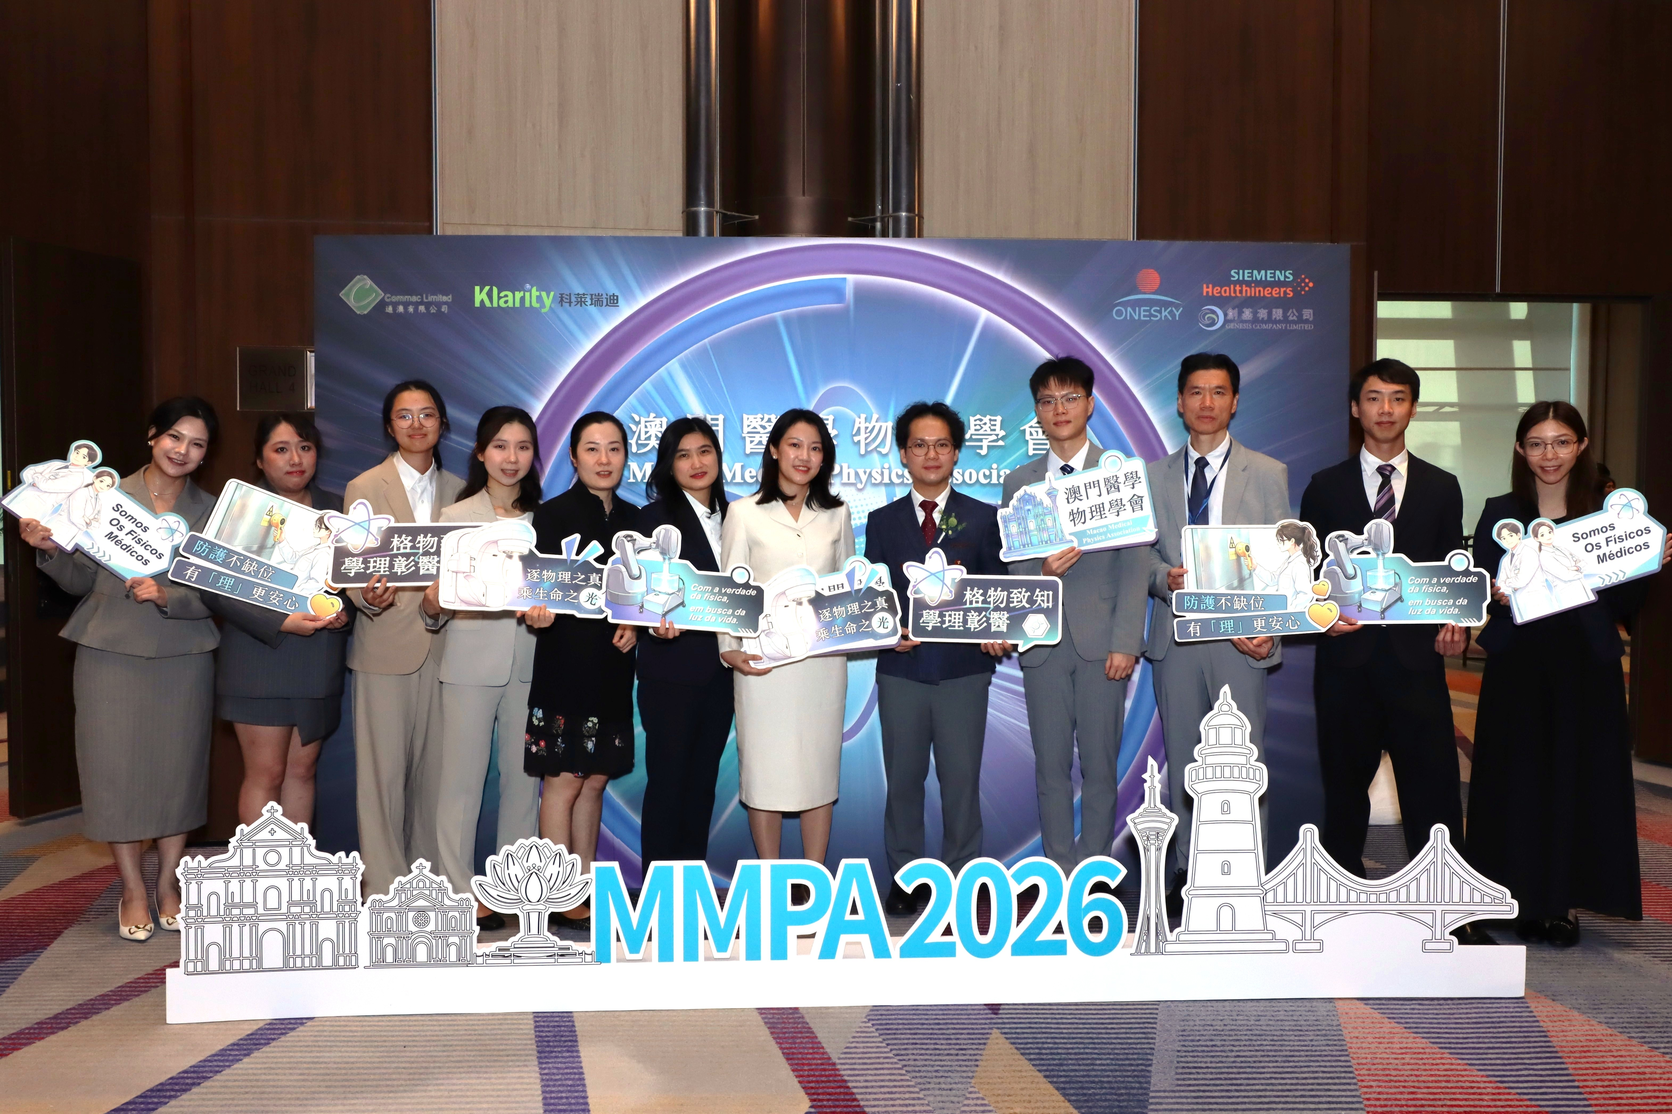
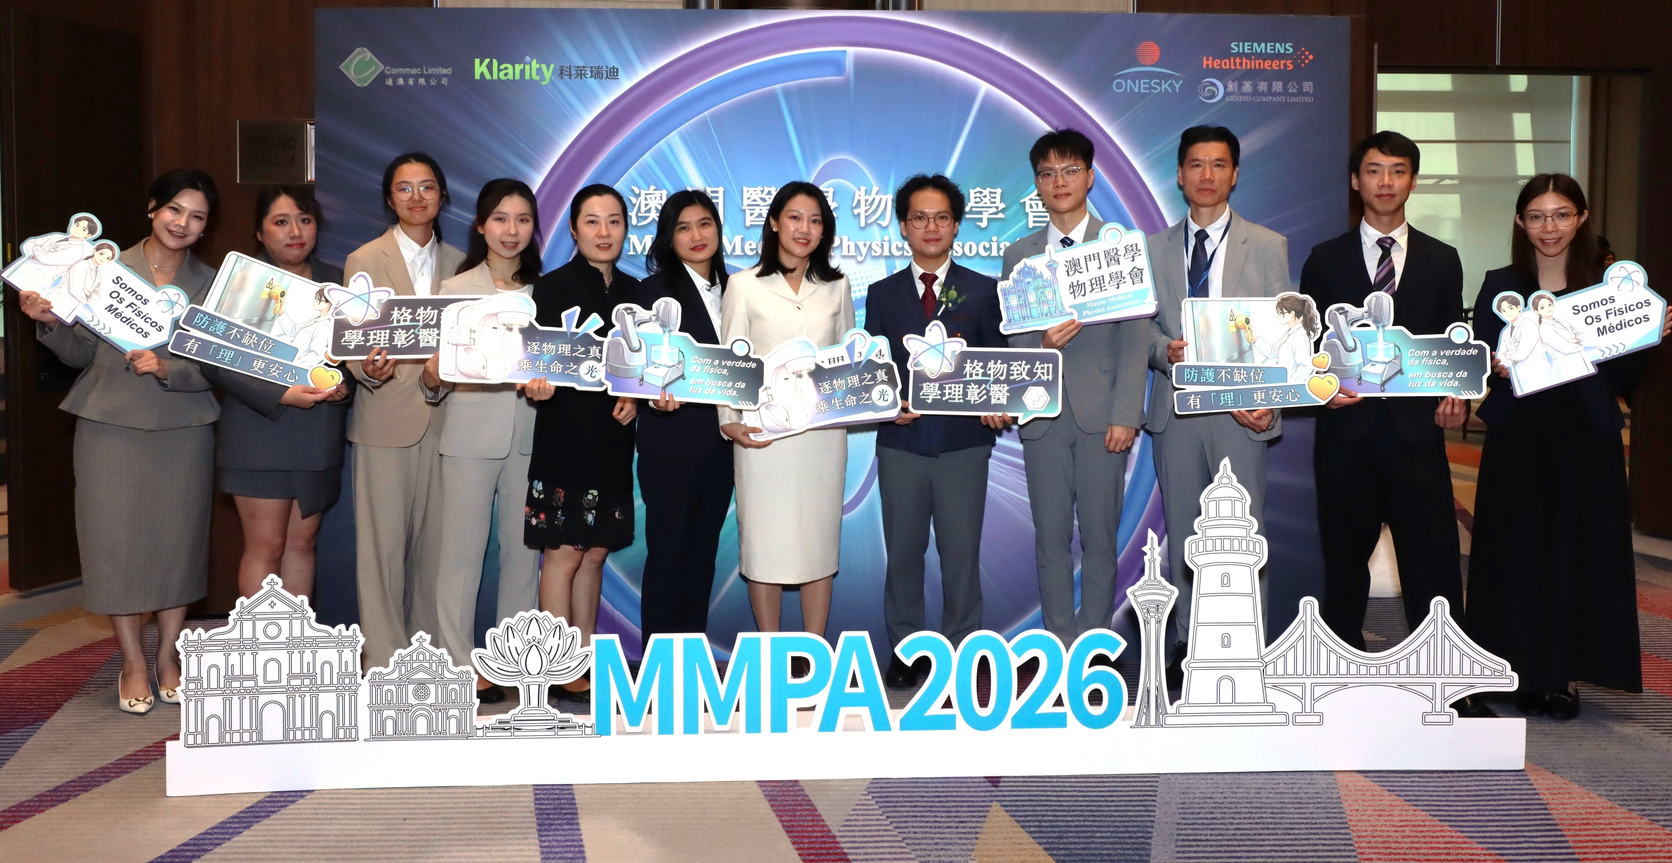
added AoA

diff --git a/about.html b/about.html
@@ -15,7 +15,7 @@
     <a href="index.html" class="logo">
       <img src="images/logo.png" alt="學會標誌" width="36" height="36">
       <span class="lang-zh">澳門醫學物理學會</span>
-      <span class="lang-en">Macau Medical Physics Association</span>
+      <span class="lang-en">Macao Medical Physics Association</span>
     </a>
     <div class="header-tools">
       <form class="site-search" id="site-search" role="search" autocomplete="off">
@@ -136,17 +136,140 @@
       </div>
 
       <!-- ========== 章程 ========== -->
-      <div class="tab-panel prose" id="panel-constitution" role="tabpanel" aria-labelledby="tab-constitution">
-        <!-- TODO: 章程全文尚未提供。可在此貼上條文，或放一個 PDF 下載連結，例如：
-             <a class="btn" href="docs/MMPA_constitution.pdf" target="_blank" rel="noopener">下載章程（PDF）</a> -->
-        <div class="sub-head"><h3><span class="lang-zh">學會章程</span><span class="lang-en">Constitution</span></h3></div>
-        <p>
-          <span class="lang-zh">章程內容整理中，稍後將於此頁公佈。</span>
-          <span class="lang-en">The Association's constitution is being prepared and will be published on this page shortly.</span>
-        </p>
+      <div class="tab-panel prose law" id="panel-constitution" role="tabpanel" aria-labelledby="tab-constitution">
+
+        <div class="lang-zh">
+          <p class="law-cert">本章程已刊登《澳門特別行政區公報》。</p>
+
+          <h3 class="law-title">澳門醫學物理學會章程</h3>
+          <p class="law-sub">ASSOCIAÇÃO DE FÍSICA MÉDICA DE MACAU</p>
+
+          <!-- ===== 第一章 ===== -->
+          <div class="sub-head"><h3>第一章  總則</h3></div>
+
+          <h4>第一條  名稱</h4>
+          <p>本會中文名稱為“澳門醫學物理學會”，葡文名稱為“ASSOCIAÇÃO DE FÍSICA MÉDICA DE MACAU”，英文名稱為“MACAO MEDICAL PHYSICS ASSOCIATION”，英文簡稱為“MMPA”。</p>
+
+          <h4>第二條  會址</h4>
+          <p>一、本會會址設於澳門羅利老馬路 3 號地下。</p>
+          <p>二、本會可透過會員大會決議更換會址。</p>
+
+          <h4>第三條  宗旨</h4>
+          <p>本會為非牟利團體。宗旨為：</p>
+          <p class="item">(一) 在澳門地區推廣有關醫學物理的應用及研究；</p>
+          <p class="item">(二) 提升澳門地區從事放射工作的醫療人員在醫學物理的專業水平；</p>
+          <p class="item">(三) 運用醫學物理專業知識，提升公眾及相關專業人員對輻射防護與安全的認知；</p>
+          <p class="item">(四) 與澳門地區以外的學會及相關團體進行學術研討和交流。</p>
+
+          <h4>第四條  會務</h4>
+          <p>本會之會務主要為：</p>
+          <p class="item">(一) 舉辦或協辦有關醫學物理與相關科技的學術演講會及研討會；</p>
+          <p class="item">(二) 發表有關醫學物理與相關科技之學術文章，會訊及有关刊物；</p>
+          <p class="item">(三) 舉辦或協辦醫學物理相關專業的繼續教育及培訓；</p>
+          <p class="item">(四) 有關會員或國內外學術團體之連繫交流；</p>
+          <p class="item">(五) 接受有關輻射防護安全的諮詢。</p>
+
+          <h4>第五條  收入</h4>
+          <p>本會的收入來源主要為：</p>
+          <p class="item">(一) 會員繳付的入會費及年費；</p>
+          <p class="item">(二) 來自本會活動的收費；</p>
+          <p class="item">(三) 公共或私人實體的任何資助及捐獻。</p>
+
+          <!-- ===== 第二章 ===== -->
+          <div class="sub-head"><h3>第二章  會員</h3></div>
+
+          <h4>第六條  入會資格</h4>
+          <p>凡有意加入本會並認同本會宗旨之人士，均可以書面方式向本會理事會提出申請，經本會理事會批准後，即成為本會會員。會員類別和申請資格如下：</p>
+          <p class="item">(一) 個人會員：凡年滿二十歲，具備以下條件，得申請加入為會員。</p>
+          <p class="item item--2">1. 醫學物理、醫學工程、放射科學、醫學影像或相關學歷者；</p>
+          <p class="item item--2">2. 從事醫學放射專業工作兩年或以上者。</p>
+          <p class="item">(二) 準會員：訓練與工作年資未達個人會員資格者，得申請加入為準會員。</p>
+          <p class="item">(三) 贊助會員：凡贊同本學會宗旨，並贊助本學會經費及工作之團體或個人，經理事會通過者。</p>
+
+          <h4>第七條  權利</h4>
+          <p>本會會員均享有下列權利：</p>
+          <p class="item">(一) 參加會員大會及有表決權；</p>
+          <p class="item">(二) 有選舉權及被選舉權；</p>
+          <p class="item">(三) 根據章程的規定要求召開會員大會；</p>
+          <p class="item">(四) 參與本會的活動、使用本會的設施。</p>
+
+          <h4>第八條  義務</h4>
+          <p>會員必須履行以下義務：</p>
+          <p class="item">(一) 遵守本會章程、內部規章及大會決議；</p>
+          <p class="item">(二) 獲選為本會各機關的成員後，必須履行任期內獲本會授予之工作；</p>
+          <p class="item">(三) 按時繳付入會費、年費；</p>
+          <p class="item">(四) 參與支持及協助本會舉辦之各項活動；</p>
+          <p class="item">(五) 推動本會會務發展；</p>
+          <p class="item">(六) 維護本會的聲譽。</p>
+
+          <h4>第九條  退出及除名</h4>
+          <p>一、若自行退出本會，應提前最少一個月以書面形式向本會理事會作出通知。</p>
+          <p>二、會員若違反章程中的責任，或不遵守本會所依循的原則，經理事會通過，可被撤消會員資格。</p>
+
+          <!-- ===== 第三章 ===== -->
+          <div class="sub-head"><h3>第三章  機關</h3></div>
+
+          <h4>第十條  領導機關</h4>
+          <p>本會之領導機關包括會員大會、理事會及監事會。</p>
+
+          <h4>第十一條  會員大會</h4>
+          <p>一、會員大會為本會的最高權力機關。</p>
+          <p>二、大會主席團由會員大會選出，主席團設會長、副會長各一人，任期為三年，連選得連任。</p>
+          <p>三、會員大會每年至少舉行一次，由大會主席主持，至少提前八天透過掛號信或簽收之方式召集，通知書內須註明會議之日期、時間、地點及議程。</p>
+          <p>四、會議決議取決於出席會員之絕對多數票。然而，修改章程的決議，須獲出席會員四分之三之贊同票；解散本會或延長本會存續期之決議，須獲全體會員四分之三之贊同票。</p>
+          <p>五、會員大會的決議應載於會議記錄簿冊內，以供會員查閱。</p>
+          <p>六、會員大會擁有以下權限：</p>
+          <p class="item">(一) 通過和修訂本會章程；</p>
+          <p class="item">(二) 選舉會員大會主席團、理事會及監事會成員；</p>
+          <p class="item">(三) 審議和通過年度會務報告、財務帳目及監事會意見書。</p>
+
+          <h4>第十二條  理事會</h4>
+          <p>一、理事會是本會的行政管理機關，由三位成員組成，成員總數須為單數。</p>
+          <p>二、理事會成員由會員大會選出，任期為三年，連選得連任。</p>
+          <p>三、理事會設理事長一名，副理事長一名，財務一名，負責領導理事會的日常工作。</p>
+          <p>四、理事會每年最少召開兩次會議，須有半數成員出席，方可進行議決。</p>
+          <p>五、理事會會議應作成會議記錄，並載於簿冊內，以供查閱。</p>
+          <p>六、理事會負責管理本會日常事務，其權限為：</p>
+          <p class="item">(一) 確保本會的管理及運作；</p>
+          <p class="item">(二) 每年向會員大會提交會務報告、年度帳目和監事會交來之意見書；</p>
+          <p class="item">(三) 草擬各項內部規章及規則，並提交會員大會審議通過；</p>
+          <p class="item">(四) 執行會員大會的決議及維持本會的會務及各項活動；</p>
+          <p class="item">(五) 按會章規定召集會員大會；</p>
+          <p class="item">(六) 審批會員入會及退會申請；</p>
+          <p class="item">(七) 訂定入會費及年費的金額；</p>
+          <p class="item">(八) 議決會員之紀律處分及開除會籍等事宜；</p>
+          <p class="item">(九) 行使法律或本會章程所規定的其他權限。</p>
+
+          <h4>第十三條  監事會</h4>
+          <p>一、監事會是本會的監察機關，成員由會員大會選出，任期為三年，連選得連任。</p>
+          <p>二、監事會由三人組成，設監事長一名，副監事長一名及秘書一名。</p>
+          <p>三、監事會的會議紀錄應載於專有簿冊內，以供查閱。</p>
+          <p>四、監事會之權限為：</p>
+          <p class="item">(一) 監察理事會的工作；</p>
+          <p class="item">(二) 查核理事會的帳目；</p>
+          <p class="item">(三) 就理事會所提交的工作報告書及年度帳目發表意見；</p>
+          <p class="item">(四) 履行法律及章程所規定的其他義務。</p>
+
+          <!-- ===== 第四章 ===== -->
+          <div class="sub-head"><h3>第四章  其他</h3></div>
+
+          <h4>第十四條  章程之修改</h4>
+          <p>一、本章程如有未盡完善之處，得按本澳有關社團法人的法律規定，經理事會建議交由會員大會通過進行修改。</p>
+          <p>二、修改章程之決議，按本章程第十一條第四款執行，即須獲出席會員四分之三之贊同票。</p>
+
+          <h4>第十五條  會徽</h4>
+          <p>以下為本會會徽：</p>
+          <img class="law-emblem" src="images/chop.png" alt="澳門醫學物理學會會徽" width="160" height="160">
+
+          <p class="law-cert law-end">最後更新： 二零二四年九月十九日於第二公證署</p>
+        </div>
+
+        <!-- 英文模式：章程只有中文正本 -->
+        <p class="lang-en">The Association's constitution is available in Chinese only. Please switch to 中文 to read the full text.</p>
+      
       </div>
 
-      <!-- ========== 行政架構（原 members.html 的內容）========== -->
+      <!-- ========== 行政架構 ========== -->
       <div class="tab-panel" id="panel-structure" role="tabpanel" aria-labelledby="tab-structure">
         <p class="org-intro">
           <span class="lang-zh">學會設會員大會主席團、理事會及監事會。
@@ -279,7 +402,7 @@
 
 <footer class="site-footer">
   <div class="wrap">
-    <span><span class="lang-zh">© 2026 澳門醫學物理學會。保留所有權利。</span><span class="lang-en">© 2026 Macau Medical Physics Association. All rights reserved.</span></span>
+    <span><span class="lang-zh">© 2026 澳門醫學物理學會。保留所有權利。</span><span class="lang-en">© 2026 Macao Medical Physics Association. All rights reserved.</span></span>
     <span><a href="contact.html"><span class="lang-zh">聯絡我們</span><span class="lang-en">Contact</span></a></span>
   </div>
 </footer>

diff --git a/news-20260920.html b/news-20260920.html
@@ -15,7 +15,7 @@
     <a href="index.html" class="logo">
       <img src="images/logo.png" alt="學會標誌" width="36" height="36">
       <span class="lang-zh">澳門醫學物理學會</span>
-      <span class="lang-en">Macau Medical Physics Association</span>
+      <span class="lang-en">Macao Medical Physics Association</span>
     </a>
     <div class="header-tools">
       <form class="site-search" id="site-search" role="search" autocomplete="off">
@@ -57,10 +57,9 @@
       <div class="detail-head">
         <h1>
           <span class="lang-zh">澳門醫學物理學會成立典禮</span>
-          <span class="lang-en">Inauguration Ceremony of the Macau Medical Physics Association</span>
+          <span class="lang-en">Inauguration Ceremony of the Macao Medical Physics Association</span>
         </h1>
-        <!-- 發佈日期（依草稿標示為 2026.08.01；列表上的日期則是活動日期 2026.09.20） -->
-        <p class="news-date"><span class="lang-zh">發佈日期　2026.08.01</span><span class="lang-en">Posted 2026.08.01</span></p>
+        <p class="news-date"><span class="lang-zh">發佈日期　--</span><span class="lang-en">Posted 2026.08.01</span></p>
         <!-- 「回顧」標籤：活動結束且 news-data.js 有填 album 時，由 script.js 自動填入 -->
         <p class="detail-review" id="detail-review" hidden></p>
       </div>
@@ -83,14 +82,14 @@
         <li><strong><span class="lang-zh">形式：</span><span class="lang-en">Format:</span></strong><span class="lang-zh">實體</span><span class="lang-en">In person</span></li>
         <li><strong><span class="lang-zh">地點：</span><span class="lang-en">Venue:</span></strong><span class="lang-zh">澳門旅遊塔會議中心</span><span class="lang-en">Macau Tower Convention Centre</span></li>
         <li><strong><span class="lang-zh">費用：</span><span class="lang-en">Fee:</span></strong><span class="lang-zh">免費</span><span class="lang-en">Free</span></li>
-        <li><strong><span class="lang-zh">主辦單位：</span><span class="lang-en">Organizer:</span></strong><span class="lang-zh">澳門醫學物理學會</span><span class="lang-en">Macau Medical Physics Association</span></li>
+        <li><strong><span class="lang-zh">主辦單位：</span><span class="lang-en">Organizer:</span></strong><span class="lang-zh">澳門醫學物理學會</span><span class="lang-en">Macao Medical Physics Association</span></li>
       </ul>
 
       <div class="sub-head"><h3><span class="lang-zh">活動簡介</span><span class="lang-en">About the event</span></h3></div>
       <div class="prose">
         <p>
           <span class="lang-zh">澳門醫學物理學會（下稱「本會」）於 2024 年 9 月 19 日登記成立。本會謹訂於 2026 年 9 月 20 日（星期日）下午三時正，假澳門旅遊塔會議中心舉行成立典禮。是次活動將特邀北京、澳門及香港三地之醫學物理、臨床醫療、生物醫學工程等領域之專家學者，以及多個相關專業學會代表出席。</span>
-          <span class="lang-en">The Macau Medical Physics Association (the "Association") was formally registered on 19 September 2024, founded jointly by medical physicists and radiographers working in radiotherapy, medical imaging and nuclear medicine in Macau as a non-profit academic organization. Its mission is to advance the professional development of medical physics in Macau, promote cross-regional academic exchange, cultivate professional talent, encourage more young people in Macau to pursue careers in medical physics, and deepen collaboration with related disciplines. The inaugural ceremony will be held on Sunday, 20 September 2026 at 3:00 PM, at the Macau Tower Convention Centre, with invited experts and scholars from Beijing, Macau and Hong Kong in medical physics, clinical medicine and biomedical engineering, alongside representatives of related professional societies. Approximately 100 attendees are expected.</span>
+          <span class="lang-en">The Macao Medical Physics Association (the "Association") was formally registered on 19 September 2024, founded jointly by medical physicists and radiographers working in radiotherapy, medical imaging and nuclear medicine in Macau as a non-profit academic organization. Its mission is to advance the professional development of medical physics in Macau, promote cross-regional academic exchange, cultivate professional talent, encourage more young people in Macau to pursue careers in medical physics, and deepen collaboration with related disciplines. The inaugural ceremony will be held on Sunday, 20 September 2026 at 3:00 PM, at the Macau Tower Convention Centre, with invited experts and scholars from Beijing, Macau and Hong Kong in medical physics, clinical medicine and biomedical engineering, alongside representatives of related professional societies. Approximately 100 attendees are expected.</span>
         </p>
         <p><a class="btn" href="posters/20260920_OpenningCeremony.pdf" target="_blank" rel="noopener"><span class="lang-zh">下載海報（PDF）</span><span class="lang-en">Download poster (PDF)</span></a></p>
       </div>
@@ -108,7 +107,7 @@
 
 <footer class="site-footer">
   <div class="wrap">
-    <span><span class="lang-zh">© 2026 澳門醫學物理學會。保留所有權利。</span><span class="lang-en">© 2026 Macau Medical Physics Association. All rights reserved.</span></span>
+    <span><span class="lang-zh">© 2026 澳門醫學物理學會。保留所有權利。</span><span class="lang-en">© 2026 Macao Medical Physics Association. All rights reserved.</span></span>
     <span><a href="contact.html"><span class="lang-zh">聯絡我們</span><span class="lang-en">Contact</span></a></span>
   </div>
 </footer>

diff --git a/index.html b/index.html
@@ -16,7 +16,7 @@
     <a href="index.html" class="logo">
       <img src="images/logo.png" alt="學會標誌" width="36" height="36">
       <span class="lang-zh">澳門醫學物理學會</span>
-      <span class="lang-en">Macau Medical Physics Association</span>
+      <span class="lang-en">Macao Medical Physics Association</span>
     </a>
     <div class="header-tools">
       <form class="site-search" id="site-search" role="search" autocomplete="off">
@@ -120,7 +120,7 @@
         <p>
           <span class="lang-zh">本會屬非牟利社團，致力於推廣醫學物理的應用與研究，並普及輻射防護與安全知識。
             我們面向醫學物理、放射科學、醫學工程等領域的從業人員及學習者，透過舉辦學術研討、繼續教育培訓、刊物出版與對外交流，同時提供輻射安全諮詢，持續提升本地專業水平與服務質量。</span>
-          <span class="lang-en">The Macau Medical Physics Association is a non-profit organization that advances research and application in medical physics while furthering public and professional understanding of radiation safety.
+          <span class="lang-en">The Macao Medical Physics Association is a non-profit organization that advances research and application in medical physics while furthering public and professional understanding of radiation safety.
             We serve clinicians, engineers, researchers, and trainees across medical physics, radiology, and allied health fields.
             Through academic symposia, continuing education, professional publications, cross-border collaborations, and radiation safety consulting, the Association supports high standards of practice throughout Macao.</span>
         </p>
@@ -148,7 +148,7 @@
 
 <footer class="site-footer">
   <div class="wrap">
-    <span><span class="lang-zh">© 2026 澳門醫學物理學會。保留所有權利。</span><span class="lang-en">© 2026 Macau Medical Physics Association. All rights reserved.</span></span>
+    <span><span class="lang-zh">© 2026 澳門醫學物理學會。保留所有權利。</span><span class="lang-en">© 2026 Macao Medical Physics Association. All rights reserved.</span></span>
     <span><a href="contact.html"><span class="lang-zh">聯絡我們</span><span class="lang-en">Contact</span></a></span>
   </div>
 </footer>

diff --git a/contact.html b/contact.html
@@ -15,7 +15,7 @@
     <a href="index.html" class="logo">
       <img src="images/logo.png" alt="學會標誌" width="32" height="32">
       <span class="lang-zh">澳門醫學物理學會</span>
-      <span class="lang-en">Macau Medical Physics Association</span>
+      <span class="lang-en">Macao Medical Physics Association</span>
     </a>
     <div class="header-tools">
       <form class="site-search" id="site-search" role="search" autocomplete="off">
@@ -113,7 +113,7 @@
 
 <footer class="site-footer">
   <div class="wrap">
-    <span><span class="lang-zh">© 2026 澳門醫學物理學會。保留所有權利。</span><span class="lang-en">© 2026 Macau Medical Physics Association. All rights reserved.</span></span>
+    <span><span class="lang-zh">© 2026 澳門醫學物理學會。保留所有權利。</span><span class="lang-en">© 2026 Macao Medical Physics Association. All rights reserved.</span></span>
     <span><a href="contact.html"><span class="lang-zh">聯絡我們</span><span class="lang-en">Contact</span></a></span>
   </div>
 </footer>

diff --git a/news.html b/news.html
@@ -15,7 +15,7 @@
     <a href="index.html" class="logo">
       <img src="images/logo.png" alt="學會標誌" width="36" height="36">
       <span class="lang-zh">澳門醫學物理學會</span>
-      <span class="lang-en">Macau Medical Physics Association</span>
+      <span class="lang-en">Macao Medical Physics Association</span>
     </a>
     <div class="header-tools">
       <form class="site-search" id="site-search" role="search" autocomplete="off">
@@ -71,7 +71,7 @@
 
 <footer class="site-footer">
   <div class="wrap">
-    <span><span class="lang-zh">© 2026 澳門醫學物理學會。保留所有權利。</span><span class="lang-en">© 2026 Macau Medical Physics Association. All rights reserved.</span></span>
+    <span><span class="lang-zh">© 2026 澳門醫學物理學會。保留所有權利。</span><span class="lang-en">© 2026 Macao Medical Physics Association. All rights reserved.</span></span>
     <span><a href="contact.html"><span class="lang-zh">聯絡我們</span><span class="lang-en">Contact</span></a></span>
   </div>
 </footer>

diff --git a/style.css b/style.css
@@ -891,3 +891,20 @@ textarea:focus-visible {
 .carousel-btn:focus-visible {
   outline-color: var(--mint);
 }
+
+/* 章程 / Constitution ---------------------------------------------- */
+.law h4 {
+  font-family: var(--font-head-zh), serif;
+  font-size: 1.02rem;
+  color: var(--navy);
+  margin: 26px 0 8px;
+}
+.law p { margin: 0 0 0.6em; }
+.law .item { padding-left: 2em; }
+.law .item--2 { padding-left: 4em; }
+
+.law-title { text-align: center; font-size: 1.5rem; margin-bottom: 2px; }
+.law-sub { text-align: center; color: #6b7490; font-size: 0.85rem; letter-spacing: 0.04em; margin-bottom: 8px; }
+.law-cert { color: #45506b; font-size: 0.9rem; border-left: 3px solid var(--mint); padding-left: 14px; margin-bottom: 28px; }
+.law-end { margin-top: 36px; margin-bottom: 0; text-align: right; border-left: none; padding-left: 0; }
+.law-emblem { margin: 8px 0 0; }

diff --git a/README.md b/README.md
@@ -2,3 +2,11 @@
 
 ## concepts
 ![alt text](concept.jpg)
+
+## reference
+https://www.cie.org.tw/p/403-1000-13-1.php?Lang=zh-tw
+https://www.tcsmba.org/2026tcsmbaprogram/
+https://www.mpta.org.mo/en/about/constitution
+https://www.ort.cuhk.edu.hk/index.html 
+http://macaurehab.org/home
+
